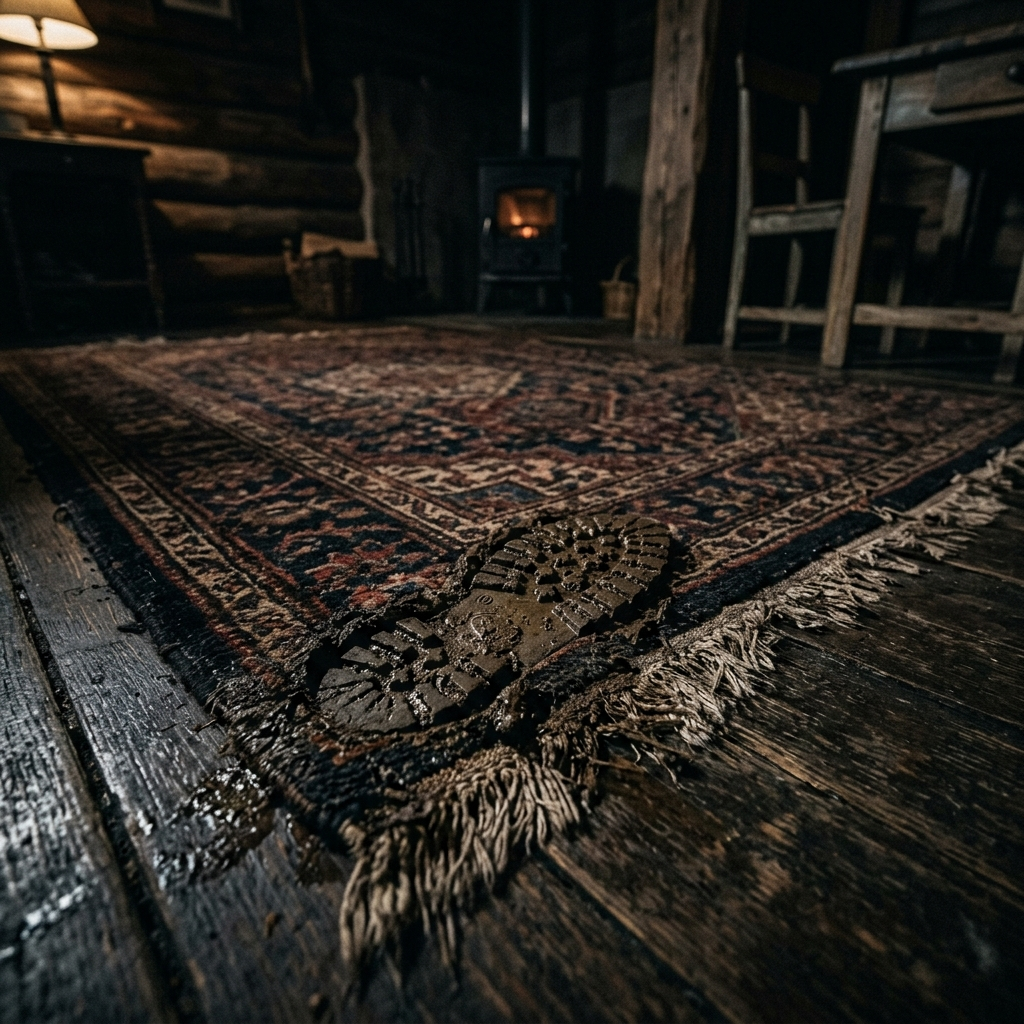
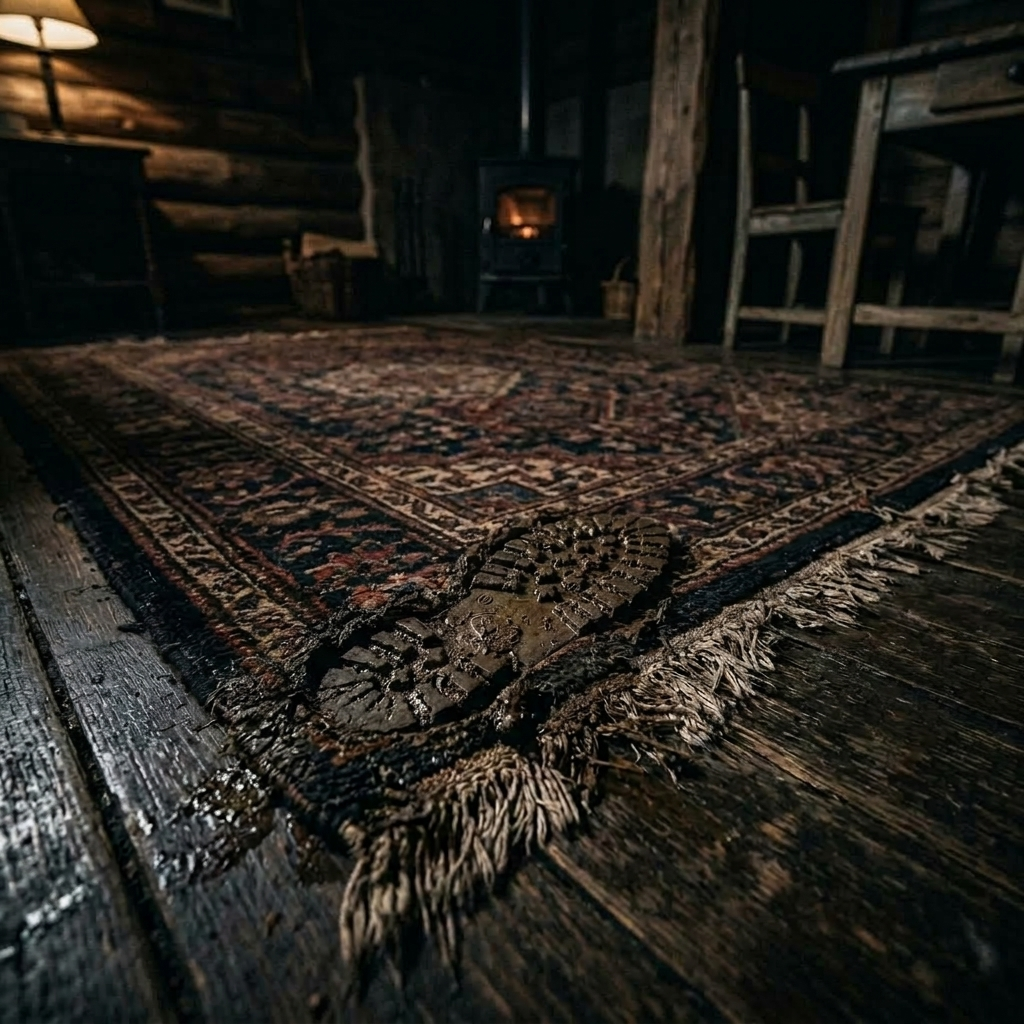
yeni görseller

diff --git a/wwwroot/js/towns/sisoren/SisorenConfig.js b/wwwroot/js/towns/sisoren/SisorenConfig.js
@@ -460,7 +460,9 @@ window.SISOREN_CONFIG = {
                         hotspots: [
                 { id: 2111, name: 'Yırtık Mektup', desc: 'Masanın altına düşmüş, tehditkâr sözler içeren eksik bir mektup.', img: 'images/towns/sisoren/deliller/2111.jpg', top: '50%', left: '20%', fingerprintSpot: { xRatio: 0.45, yRatio: 0.65, angle: -10 }, bloodSpot: null },
                 { id: 2112, name: 'Çamurlu Ayak İzi', desc: 'Halının kenarında belirgin bir şekilde duran, kasabaya yabancı bir çizme izi.', img: 'images/towns/sisoren/deliller/2112.jpg', top: '70%', left: '50%', fingerprintSpot: null, bloodSpot: { xRatio: 0.6, yRatio: 0.75, angle: 22 } },
-                { id: 2113, name: 'Kırık Cam Parçası', desc: 'Pencerenin kenarında içeriden dışarıya doğru kırılmış küçük bir cam parçası.', img: 'images/towns/sisoren/deliller/2113.jpg', top: '40%', left: '80%', fingerprintSpot: { xRatio: 0.65, yRatio: 0.70, angle: -15 }, bloodSpot: { xRatio: 0.45, yRatio: 0.68, angle: 5 } }
+                { id: 2113, name: 'Kırık Cam Parçası', desc: 'Pencerenin kenarında içeriden dışarıya doğru kırılmış küçük bir cam parçası.', img: 'images/towns/sisoren/deliller/2113.jpg', top: '40%', left: '80%', fingerprintSpot: { xRatio: 0.65, yRatio: 0.70, angle: -15 }, bloodSpot: { xRatio: 0.45, yRatio: 0.68, angle: 5 } },
+                { id: 2114, name: 'Eski Avcı Bıçağı', desc: 'Dedesinden kalma kalın, ucu paslı ve sapında kurumuş kan lekeleri bulunan avcı bıçağı.', img: 'images/towns/sisoren/deliller/2114.jpg', top: '60%', left: '35%', fingerprintSpot: { xRatio: 0.30, yRatio: 0.80, angle: 10 }, bloodSpot: { xRatio: 0.70, yRatio: 0.30, angle: -5 } },
+                { id: 2115, name: 'Altın Kese', desc: 'İçinde kurbanın şantajla sızdırdığı birkaç altın sikke bulunan, yıpranmış siyah kadife kese.', img: 'images/towns/sisoren/deliller/2115.jpg', top: '80%', left: '25%', fingerprintSpot: { xRatio: 0.50, yRatio: 0.50, angle: 0 }, bloodSpot: null }
             ]
         },
         // 12. KASABALI EVİ 2 (NPC 212) — Hatice Nine (Kadın #6)
@@ -490,7 +492,9 @@ window.SISOREN_CONFIG = {
                         hotspots: [
                 { id: 2121, name: 'Eski Fotoğraf Albümü', desc: 'Sayfalarından biri yeni koparılmış, kurbanla ilgili sırları barındıran albüm.', img: 'images/towns/sisoren/deliller/2121.jpg', top: '60%', left: '30%', fingerprintSpot: { xRatio: 0.65, yRatio: 0.40, angle: 12 }, bloodSpot: null },
                 { id: 2122, name: 'Zehirli Bitki Kökü', desc: 'Mutfak tezgahında bırakılmış, normalde bu yörede yetişmeyen zehirli bir bitki parçası.', img: 'images/towns/sisoren/deliller/2122.jpg', top: '45%', left: '60%', fingerprintSpot: { xRatio: 0.35, yRatio: 0.65, angle: -8 }, bloodSpot: null },
-                { id: 2123, name: 'Gümüş Düğme', desc: 'Yer minderinin arasına sıkışmış, maktulün ceketine ait olduğu anlaşılan gümüş düğme.', img: 'images/towns/sisoren/deliller/2123.jpg', top: '75%', left: '80%', fingerprintSpot: { xRatio: 0.51, yRatio: 0.49, angle: 24 }, bloodSpot: { xRatio: 0.55, yRatio: 0.52, angle: 0 } }
+                { id: 2123, name: 'Gümüş Düğme', desc: 'Yer minderinin arasına sıkışmış, maktulün ceketine ait olduğu anlaşılan gümüş düğme.', img: 'images/towns/sisoren/deliller/2123.jpg', top: '75%', left: '80%', fingerprintSpot: { xRatio: 0.51, yRatio: 0.49, angle: 24 }, bloodSpot: { xRatio: 0.55, yRatio: 0.52, angle: 0 } },
+                { id: 2124, name: 'Kara Dağ Mantarı', desc: 'Sadece en karanlık orman diplerinde yetişen ve kurutulmuş, ölümcül kara dağ mantarları.', img: 'images/towns/sisoren/deliller/2124.jpg', top: '80%', left: '40%', fingerprintSpot: { xRatio: 0.40, yRatio: 0.60, angle: 15 }, bloodSpot: null },
+                { id: 2125, name: 'Sahte Arazi Tapusu', desc: 'Kurbanın kasabayı satmak için hazırladığı, şöminede yarısı yanmış sahte arazi tapusu.', img: 'images/towns/sisoren/deliller/2125.jpg', top: '85%', left: '65%', fingerprintSpot: { xRatio: 0.70, yRatio: 0.30, angle: -10 }, bloodSpot: null }
             ]
         },
         // 13. KASABALI EVİ 3 (NPC 213) — Emine Hanım (Kadın #7)
@@ -520,7 +524,9 @@ window.SISOREN_CONFIG = {
                         hotspots: [
                 { id: 2131, name: 'Kanlı Yün Yumağı', desc: 'Dokuma tezgahının altında bulunan, üzerine kan damlamış yün ip.', img: 'images/towns/sisoren/deliller/2131.jpg', top: '55%', left: '25%', fingerprintSpot: { xRatio: 0.48, yRatio: 0.60, angle: -14 }, bloodSpot: { xRatio: 0.58, yRatio: 0.65, angle: 33 } },
                 { id: 2132, name: 'Gizli Çekmece', desc: 'Sandığın içinde gizli bir bölme. İçinde kurbanın sahte kimliği bulunuyor.', img: 'images/towns/sisoren/deliller/2132.jpg', top: '65%', left: '70%', fingerprintSpot: { xRatio: 0.45, yRatio: 0.55, angle: 18 }, bloodSpot: null },
-                { id: 2133, name: 'Kopuk Kolye', desc: 'Yerdeki talaşların arasında parlayan, arbede sırasında koptuğu anlaşılan kolye.', img: 'images/towns/sisoren/deliller/2133.jpg', top: '80%', left: '45%', fingerprintSpot: { xRatio: 0.40, yRatio: 0.70, angle: 55 }, bloodSpot: { xRatio: 0.60, yRatio: 0.60, angle: 10 } }
+                { id: 2133, name: 'Kopuk Kolye', desc: 'Yerdeki talaşların arasında parlayan, arbede sırasında koptuğu anlaşılan kolye.', img: 'images/towns/sisoren/deliller/2133.jpg', top: '80%', left: '45%', fingerprintSpot: { xRatio: 0.40, yRatio: 0.70, angle: 55 }, bloodSpot: { xRatio: 0.60, yRatio: 0.60, angle: 10 } },
+                { id: 2134, name: 'Kalın Yün İp', desc: 'Boğma izleriyle uyuşan, özel dokunmuş çok kalın ve dayanıklı bir yün ip parçası.', img: 'images/towns/sisoren/deliller/2134.jpg', top: '45%', left: '40%', fingerprintSpot: { xRatio: 0.30, yRatio: 0.60, angle: 0 }, bloodSpot: null },
+                { id: 2135, name: 'Çizik Dürbün', desc: 'Maktulün, Emine Hanım\'ı uzaktan gözetlemek için kullandığı, merceği çizik dürbün.', img: 'images/towns/sisoren/deliller/2135.jpg', top: '75%', left: '85%', fingerprintSpot: { xRatio: 0.60, yRatio: 0.40, angle: 25 }, bloodSpot: null }
             ]
         }
     ],
